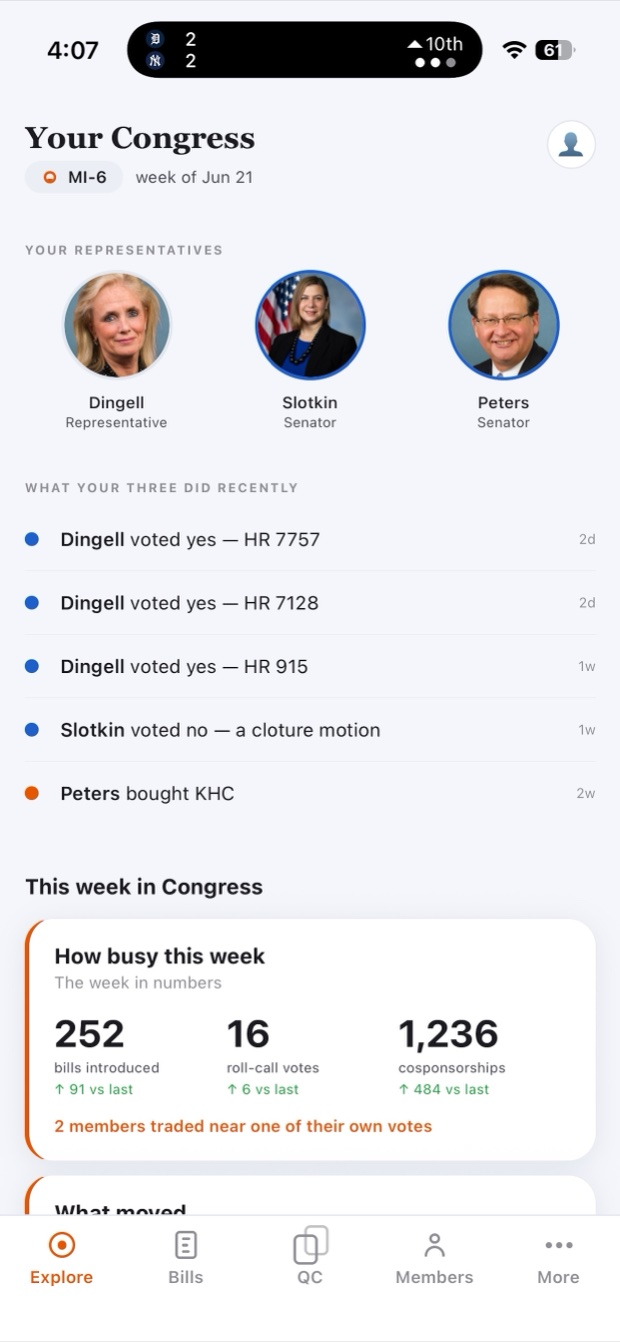
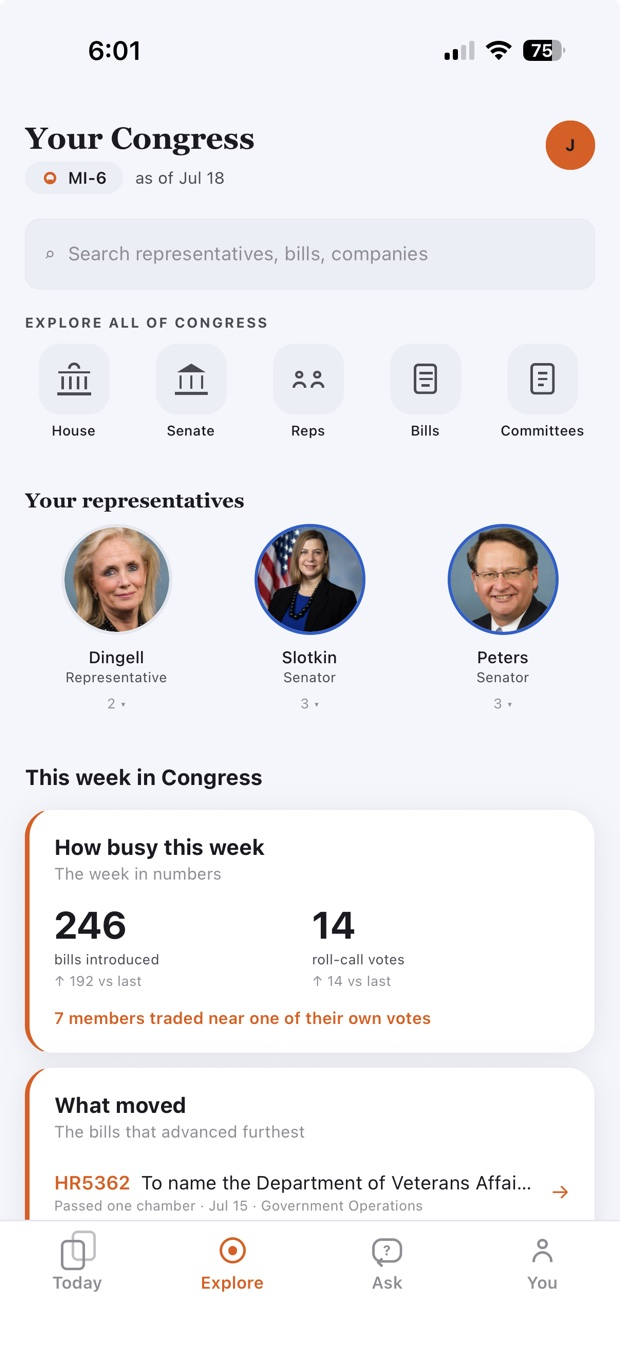
Refresh gallery screenshots and og-cover for the updated app UI
Replace all six phone-gallery screenshots with captures of the current
app (Today intro, swipe card, bill detail, Your Congress, bills list,
member profile), rewrite alt text and the bill-detail caption to match
the new screens, rebuild og-cover.png with the app's new headline, and
bump the homepage sitemap lastmod.

diff --git a/index.html b/index.html
@@ -111,37 +111,37 @@
     <div class="shots">
       <figure class="phone">
         <div class="frame">
-          <img src="images/screenshot-intro.jpg" alt="QuorumCivic intro screen headlined &ldquo;Hidden in plain sight,&rdquo; summarizing how the app covers members, bills, and funders on the public record." loading="lazy" width="232">
+          <img src="images/screenshot-intro.jpg" alt="QuorumCivic intro screen headlined &ldquo;We track Congress so you don't have to,&rdquo; built on receipts and covering the 119th Congress." loading="lazy" width="232">
         </div>
         <figcaption>The public record, finally readable: every bill, every vote, every dollar.</figcaption>
       </figure>
       <figure class="phone">
         <div class="frame">
-          <img src="images/screenshot-your-congress.jpg" alt="QuorumCivic Your Congress dashboard showing a user's three representatives, their recent votes and a trade, and a summary of the week in Congress." loading="lazy" width="232">
+          <img src="images/screenshot-your-congress.jpg" alt="QuorumCivic Your Congress dashboard for a Michigan district, with the user's three representatives, shortcuts to the House, Senate, bills, and committees, and a week-in-Congress recap noting members who traded near their own votes." loading="lazy" width="232">
         </div>
         <figcaption>Your representatives and the week in Congress, at a glance.</figcaption>
       </figure>
       <figure class="phone">
         <div class="frame">
-          <img src="images/screenshot-bills-list.jpg" alt="QuorumCivic bill browser listing recent legislation such as the Department of Defense Appropriations Act, with status badges and plain-English summaries." loading="lazy" width="232">
+          <img src="images/screenshot-bills-list.jpg" alt="QuorumCivic bill browser listing recent legislation such as the Next-Generation Geothermal Research and Development Act, with status badges like Floor Vote Scheduled and plain-English summaries." loading="lazy" width="232">
         </div>
         <figcaption>Browse and search the 119th Congress, bill by bill.</figcaption>
       </figure>
       <figure class="phone">
         <div class="frame">
-          <img src="images/screenshot-swipe-card.jpg" alt="A QuorumCivic swipe card rating H.R. 9040, drug price control legislation, as a net good on a Helps-to-Harms scale." loading="lazy" width="232">
+          <img src="images/screenshot-swipe-card.jpg" alt="A QuorumCivic swipe card rating H.R. 9706, a facial recognition age-verification bill, as Mixed on a Helps-to-Harms scale." loading="lazy" width="232">
         </div>
         <figcaption>Quick reads on who a bill helps and who it harms.</figcaption>
       </figure>
       <figure class="phone">
         <div class="frame">
-          <img src="images/screenshot-bill-detail.jpg" alt="QuorumCivic bill detail for the Department of Defense Appropriations Act, showing the sponsor, a status timeline, transparency and hidden-provision scores, and connected members." loading="lazy" width="232">
+          <img src="images/screenshot-bill-detail.jpg" alt="QuorumCivic bill detail for the Facial Recognition to Protect Children Act, showing the sponsor, a status timeline from introduced to signed, a plain-English summary of what it does, and a Helps-to-Harms reading." loading="lazy" width="232">
         </div>
-        <figcaption>Plain-English bill analysis, with transparency and hidden-provision scores.</figcaption>
+        <figcaption>Plain-English bill analysis: what it does, where it stands, how we read it.</figcaption>
       </figure>
       <figure class="phone">
         <div class="frame">
-          <img src="images/screenshot-member-profile.jpg" alt="QuorumCivic member profile for Representative Hakeem Jeffries, with a plain-English summary of his committees, voting record, district, and disclosures." loading="lazy" width="232">
+          <img src="images/screenshot-member-profile.jpg" alt="QuorumCivic member profile for Representative Debbie Dingell, with a plain-English brief of the member's legislative record and follow-the-thread stats on trades and missed votes." loading="lazy" width="232">
         </div>
         <figcaption>Every member's record, built from public votes, trades, and filings.</figcaption>
       </figure>
